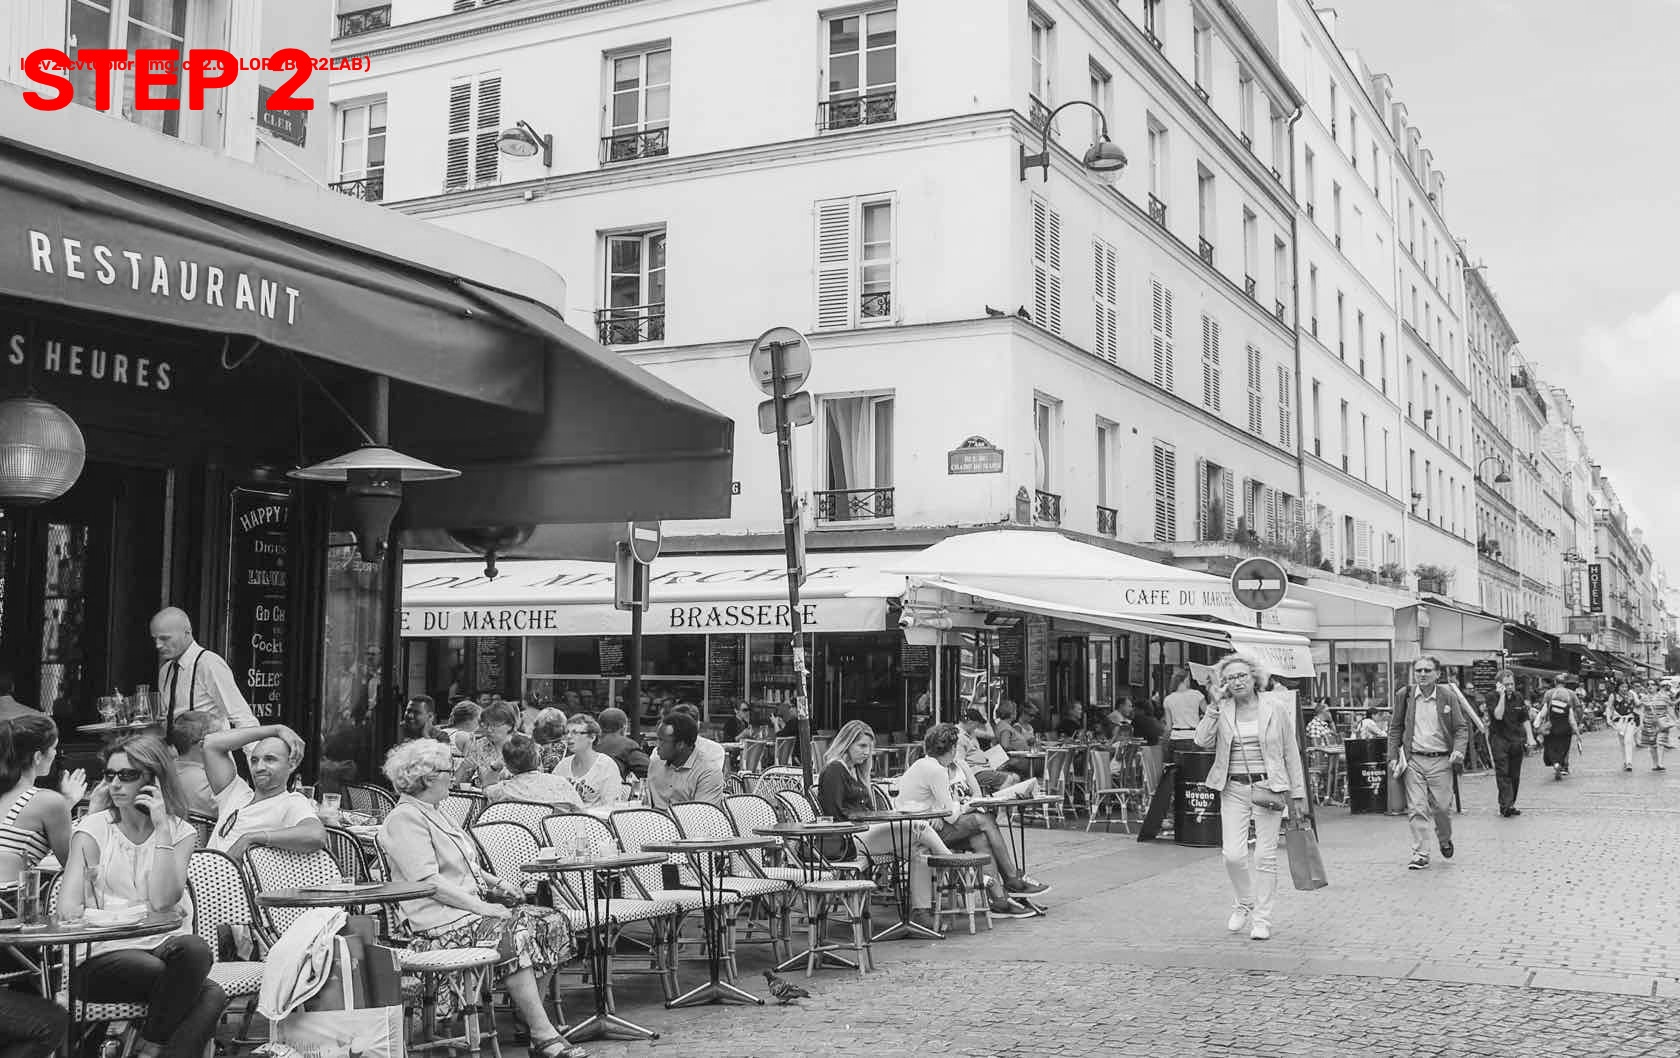
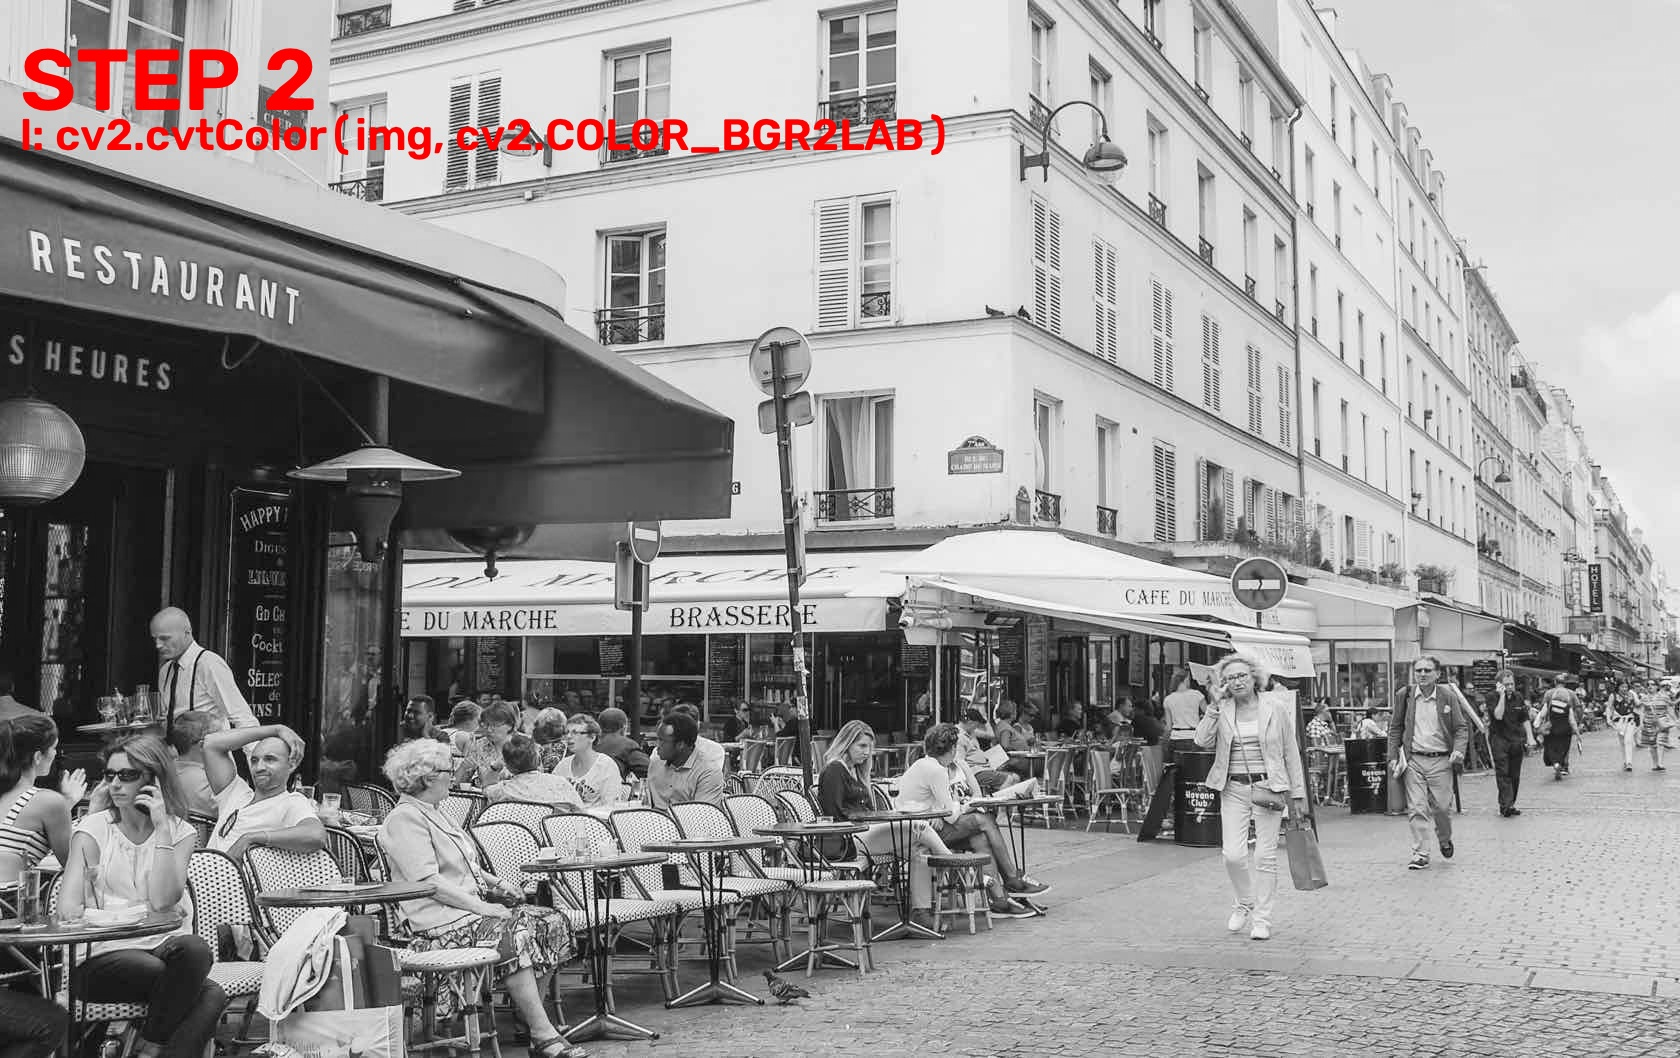
feat: clues added on webpage

Changed region(s): [[0.0, 0.0312, 0.5881, 0.156]]

diff --git a/webpage/index.html b/webpage/index.html
@@ -69,7 +69,7 @@
         <div class="innerbox">
 
             <div class="clues" id="clues" style="display:none;">
-                <div class="clues-title">CLUES</div>
+                <div class="sub">CLUES</div>
                 <div id="ocrOutput"></div>
             </div>
 

diff --git a/webpage/style.css b/webpage/style.css
@@ -24,6 +24,17 @@ body {
     gap: 16px;
 }
 
+
+
+#ocrOutput{
+    white-space: pre-line;
+    font-family: 'Courier New', Courier, monospace;
+
+}
+
+
+
+
 .innerbox {
     
     width: 100%;

diff --git a/geoseeker.py b/geoseeker.py
@@ -3,7 +3,7 @@
 # 1. EXIF: if the photo has embedded GPS (metadata), I Just extract it for free (no ai)
 # 2. GeoCLIP: CLIP style model (no ai), predicts coordinates based on visual content of the picture
 # 3. Claude vision: multimodal model that reasons with visual cues (buildings, roads, architecture, panels)
-# 4. Tesseract: OCR, program to extract names, licence plates, traffic signs...
+# 4. Tesseract (not as accurate), easyocr: OCR, program to extract names, licence plates, traffic signs...
 # 5. Using plantNet (to-do)
 
 #reliability
@@ -34,6 +34,12 @@
 # pip install "numpy<2.0" --force-reinstall
 
 
+
+
+
+
+# sudo sync
+# sudo sysctl -w vm.drop_caches=3
 
 import sys
 import os
@@ -102,9 +108,9 @@ def save_step(img, step_number, instruction, folder="preprocess"):
     cv2.putText(
         output,
         instruction,
-        (20, 70),
+        (20, 150),
         font,
-        0.6,
+        1.5,
         (0, 0, 255),
         2,
         cv2.LINE_AA
@@ -343,6 +349,9 @@ def claudevision(path, api_key):
     )
     return response.content[0].text
 
+
+
+
 def extract_text_tesseract(img_path):
     image = Image.open(img_path)
     text = pytesseract.image_to_string(image, lang="spa+eng+fra+deu+ita")
@@ -351,6 +360,9 @@ def extract_text_tesseract(img_path):
 
     
     return text.strip()
+    
+def extractedtext_corrector(texts):
+    print("text from easyocr is not accurate, attempting to fix it..")
     
     
 def extract_text_easyocr(img_path):
@@ -364,13 +376,76 @@ def extract_text_easyocr(img_path):
     try:
         results = ocr_reader.readtext(img_path)
 
-        texts = [text for (_, text, trust) in results if trust > 0.35]
+        #texts = [text for (_, text, trust) in results if trust > 0.35]
 
-        if not texts:
+        detections = [(bbox, text, confidence)
+                      for bbox, text, confidence in results
+                      if confidence > 0.35
+                      ]
+            
+        if not detections:
             return ""
+        
+        words = []
+        
+        for bbox, text, confidence in detections:
+            x = min(point[0] for point in bbox)
+            y = min(point[1] for point in bbox)
+            height = max(point[1] for point in bbox) - y
 
-        final_text = " | ".join(texts)
-        print("TEXT IN IMAGE (EasyOCR):" + final_text)
+            words.append({
+                "text": text,
+                "x": x,
+                "y": y,
+                "height": height,
+                "confidence": confidence
+            })
+            
+            print(f"{text} in {x}, {y}, height: {height}")
+            
+        print("\n\n")
+            
+            
+            
+        words.sort(key=lambda w: w["y"])
+        
+        print(words)
+        print('\n')
+        
+        lines = []
+
+        for word in words:
+
+            added = False
+
+            for line in lines:
+
+                avg_y = sum(w["y"] for w in line) / len(line)
+                avg_height = sum(w["height"] for w in line) / len(line)
+
+                # IF IT'S IN SAME HEIGHT IT'S PART OF THE SAME TEXT
+                if abs(word["y"] - avg_y) < avg_height * 0.5:
+                    line.append(word)
+                    added = True
+                    break
+
+            if not added:
+                lines.append([word])
+
+        # order each line:
+        for line in lines:
+            line.sort(key=lambda w: w["x"])
+
+        # reconstruct
+        final_lines = [
+            " ".join(word["text"] for word in line)
+            for line in lines
+        ]
+
+        final_text = "\n".join(final_lines)
+
+        print("TEXT IN IMAGE (EasyOCR):")
+        print(final_text + str(".. end"))
 
         return final_text
 
@@ -437,11 +512,11 @@ def analyze():
                 ocr_text = extract_text_easyocr(preprocess_path)
                 
                 
-                print(ocr_text)
+                print("\n \n start ocr text " + ocr_text + str(" end ocr text"))
                 response_data = {
                     'source': 'geoclip',
                     'geoclip': geoclip_results,
-                    'ocr': ocr_text
+                    'ocrOutput': ocr_text
                 }
                 return jsonify(response_data)
 
@@ -499,4 +574,4 @@ if __name__ == '__main__':
             api_key = input("paste your anthropic API KEY: ").strip()
             claudevision(path, api_key)
     else:
-        app.run(debug=True, host='0.0.0.0', port=5511)
+        app.run(debug=True, host='0.0.0.0', port=5513)
